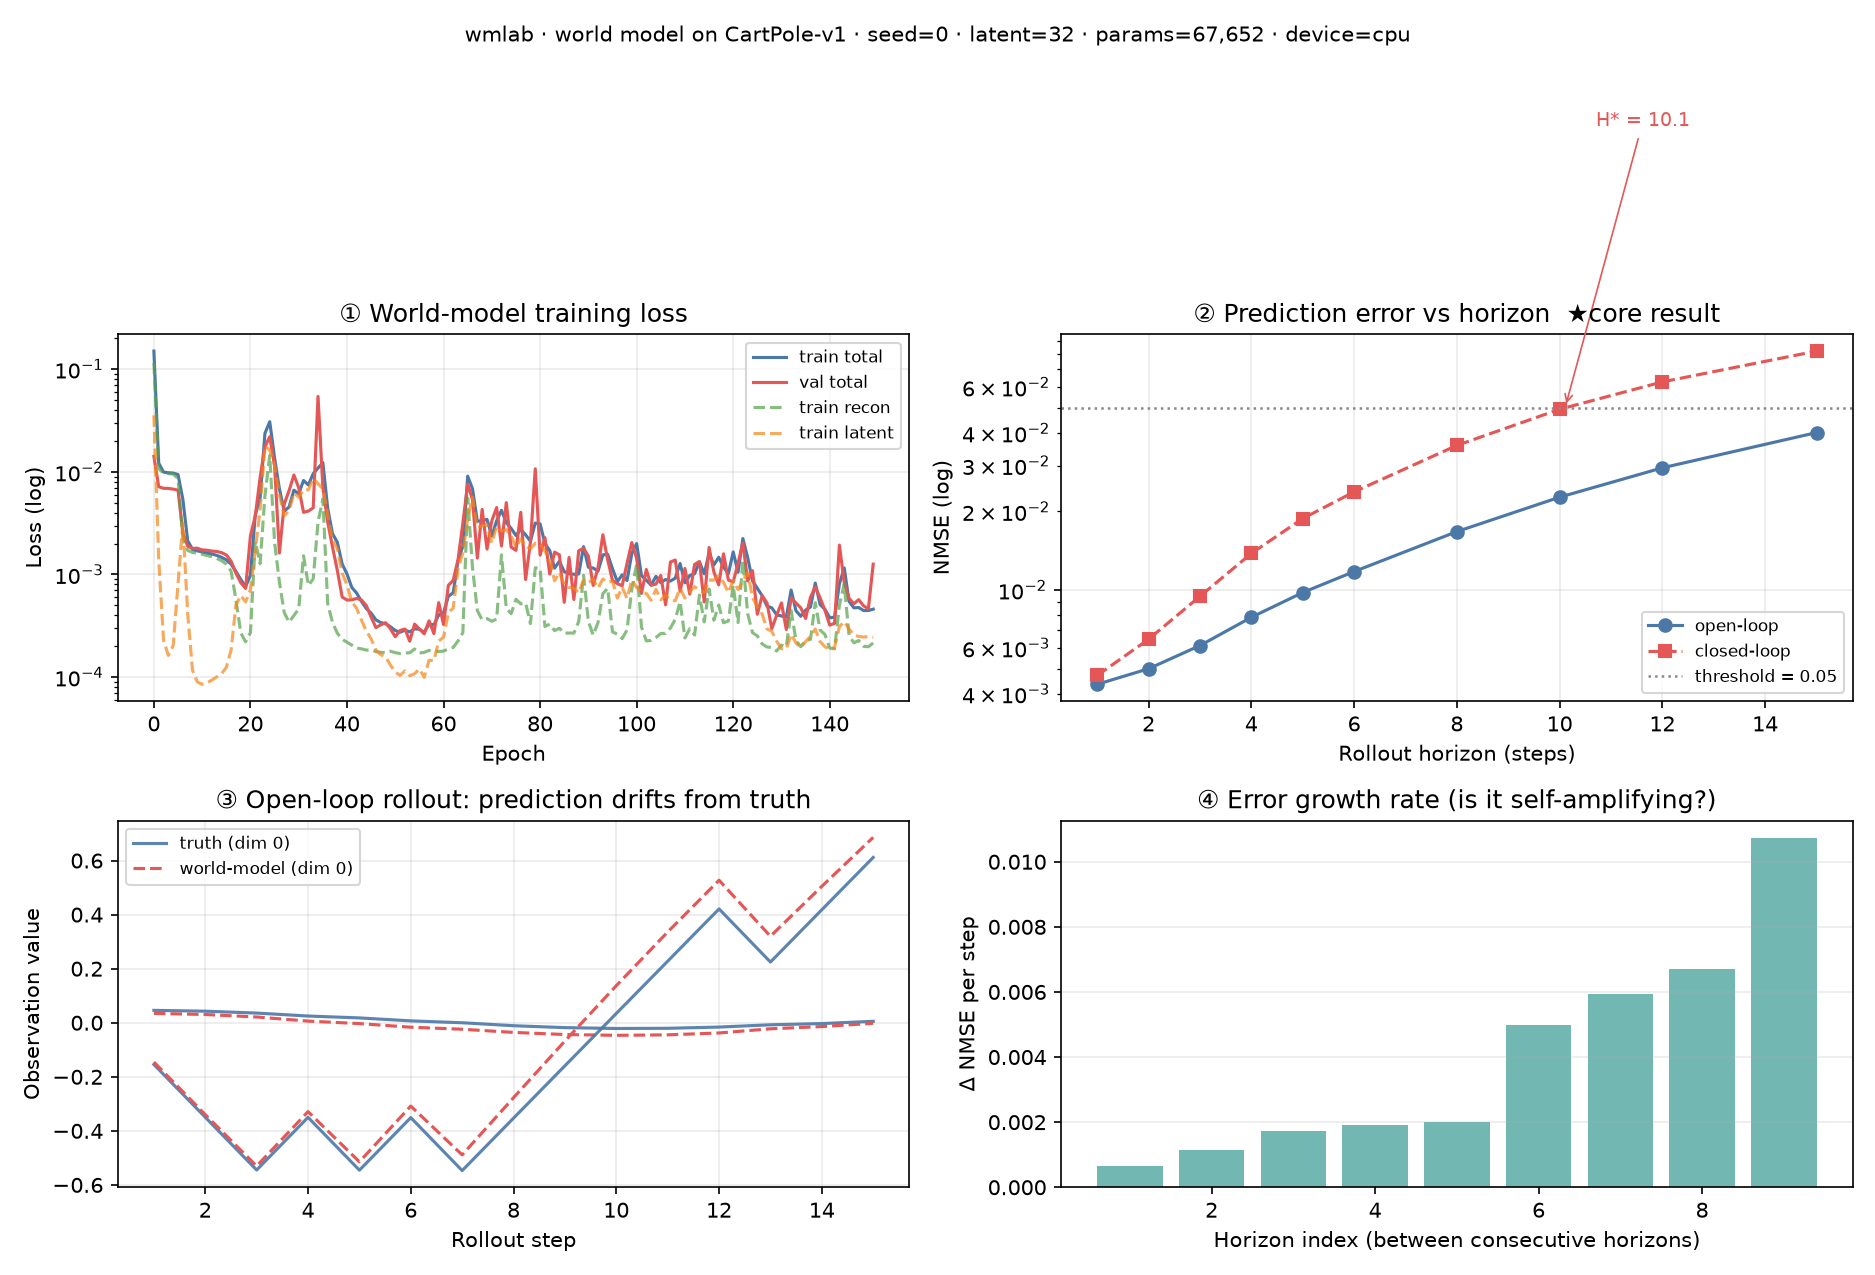
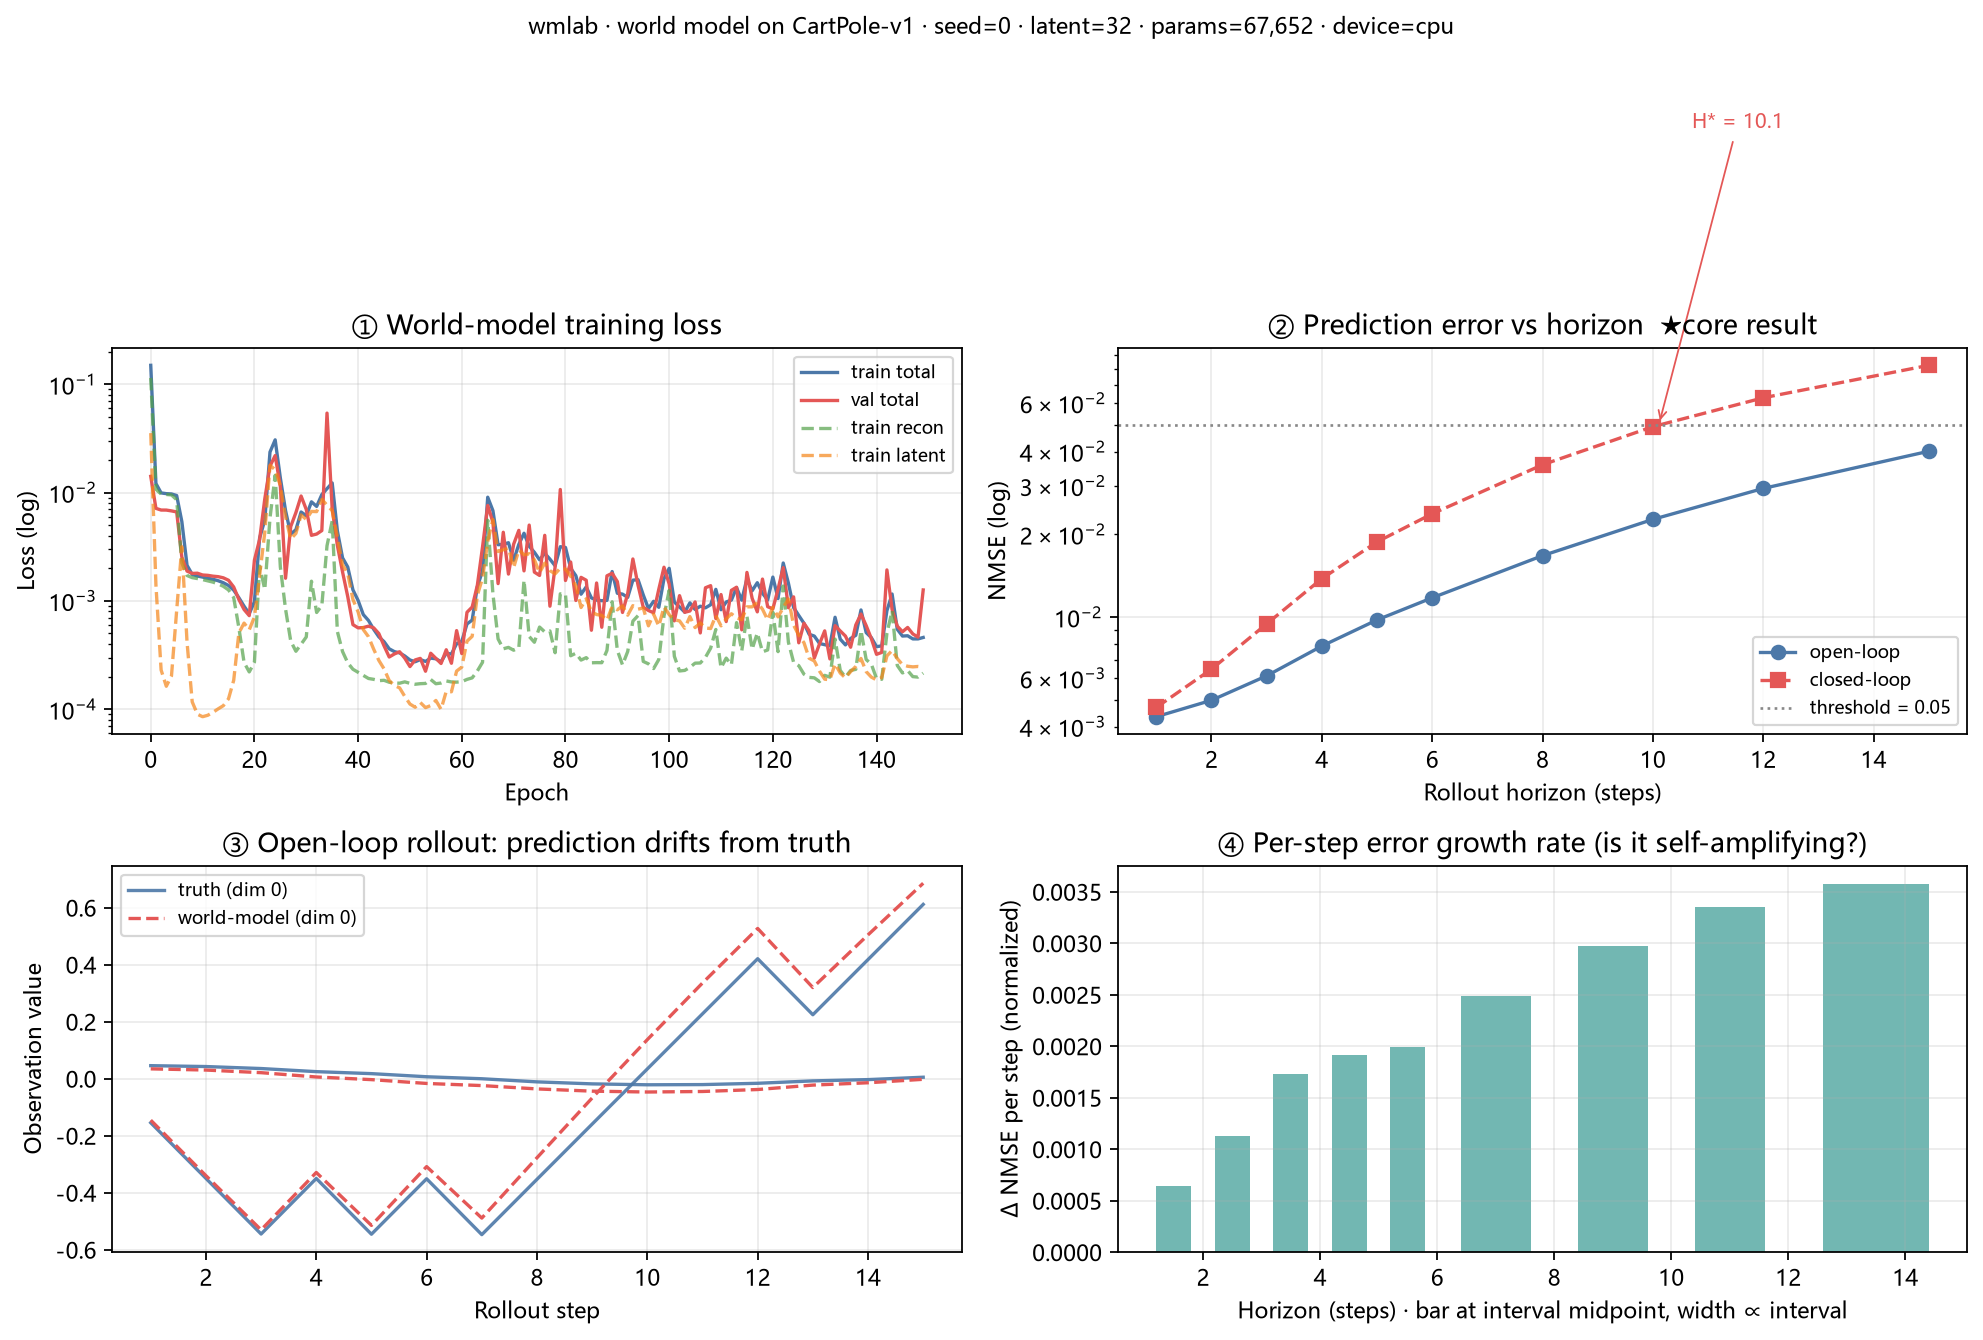
exp: long-horizon reliable horizon on Pendulum (horizons up to 190)
把 README 里自己写的那句「当前数字不足以下结论」补掉。三处改动：

1. configs/pendulum.yaml（新增）：换 Pendulum-v1（每集固定 200 步），
   horizons 抬到 190 —— 上一轮 CartPole 的 15 是**数据上限**（随机策略平均只活
   22.9 步），不是模型上限，所以「开环 > 15」什么也没测到。

2. scripts/02_train_world_model.py：修子图④的口径缺陷。
   原 inc = np.diff(nmse)，而 horizons 间隔不等（…2,2,3,5,5,10,10,25,25,50,40），
   直接差分会把「采样间隔变大」混进「误差增长加速」。
   改为 inc = ΔNMSE / Δhorizon，柱状位置改区间中点、柱宽 ∝ 区间长度。

3. scripts/03_analyze_horizon_curve.py（新增）：从 json 里算每步增量并判定形态
   （monotone_up / linear / saturating），让「误差是自我放大还是饱和」不靠肉眼看图。

结果（CPU，seed=0，模型/损失/优化器/阈值全部不动，只换数据供给）：
  - 开环 H* = 64.8 步，闭环 H* = 52.0 步（NMSE > 0.05，rel 口径，与上一轮同口径）
  - 形态 = **饱和**，不是自我放大：每步增量峰值在 h≈88（开环 9.4e-3/步），
    之后掉头（开环回撤 17%、闭环回撤 63%）
  - 上一轮「自我放大」的结论被限制为**短视界错觉**：CartPole 只测到 15 步，
    整段都落在饱和曲线的上升段
  - 待验证：闭环在超长视界 NMSE 反而低于开环（h=190：0.76 vs 1.03，开环 >1
    即比预测均值还差），需多种子/多阈值复核

CartPole 那轮同种子重跑，H* 闭环 = 10.10731756489904 与上一轮**逐位一致**，
确认流程确定性可复现。

diff --git a/scripts/03_analyze_horizon_curve.py b/scripts/03_analyze_horizon_curve.py
@@ -1,0 +1,123 @@
+#!/usr/bin/env python
+# -*- coding: utf-8 -*-
+"""脚本 03 —— 从 02 产出的 json 里，把「误差增长的形态」算清楚。
+
+为什么需要这个脚本
+------------------
+02 的图②画的是 NMSE 随视界增长的**曲线本身**，图④画的是每步增量。
+但要回答「误差是线性累积、自我放大、还是饱和」，光看图不够 —— 需要看
+**每步增量的峰值出现在哪、峰值之后是继续涨还是掉头**。
+
+上一轮（2026-09-17）的结论「误差自我放大」是**看图得出的**，且用了错误口径
+（`np.diff(nm)` 对不等间隔的 horizons 直接差分）。这个脚本把正确的口径固定下来：
+
+    inc(h) = ΔNMSE / Δhorizon        # 每步误差增量，已按步数归一
+
+并给出形态判定（三选一）：
+    - monotone_up : 增量一路上升（自我放大 / 发散）
+    - saturating  : 增量先升后降，末端趋平（饱和，存在有界特征时间 H*）
+    - linear      : 增量基本恒定（线性累积）
+
+运行
+----
+    python scripts/03_analyze_horizon_curve.py outputs/02_world_model_pendulum.json
+    python scripts/03_analyze_horizon_curve.py a.json b.json --csv out.csv
+"""
+
+from __future__ import annotations
+
+import argparse
+import csv
+import json
+import sys
+from pathlib import Path
+
+sys.path.insert(0, str(Path(__file__).resolve().parents[1]))
+
+
+def per_step(nmse: list[float], horizons: list[float]) -> list[float]:
+    """每步误差增量：ΔNMSE / Δhorizon（按步数归一，消除不等间隔的影响）。"""
+    return [(nmse[i + 1] - nmse[i]) / (horizons[i + 1] - horizons[i])
+            for i in range(len(nmse) - 1)]
+
+
+def shape(inc: list[float]) -> tuple[str, str]:
+    """判定增量序列的形态。返回 (标签, 一句依据)。"""
+    k = len(inc)
+    if k < 3:
+        return "undetermined", f"只有 {k} 个区间，不足以判定形态"
+    peak = max(range(k), key=lambda i: inc[i])
+    tail = inc[peak:]
+    # 峰值之后的最大回撤比例
+    drop = (max(tail) - min(tail)) / max(tail) if max(tail) > 0 else 0.0
+    # 首段（峰值之前）的上升倍数
+    head_gain = inc[peak] / inc[0] if inc[0] > 0 else float("inf")
+
+    if peak == k - 1:
+        return "monotone_up", (f"峰值落在最后一段区间（第 {peak + 1}/{k} 段），"
+                               f"全程上升 {head_gain:.1f}× —— 未见饱和")
+    if drop >= 0.15:
+        return "saturating", (f"峰值在第 {peak + 1}/{k} 段，之后最大回撤 {drop:.0%}"
+                              f"（上升 {head_gain:.1f}× 后掉头）—— 误差增长饱和")
+    if head_gain < 1.5:
+        return "linear", f"全程增量变化 < 1.5×（{head_gain:.2f}×）—— 近似线性累积"
+    return "saturating_mild", (f"峰值在第 {peak + 1}/{k} 段，之后回撤仅 {drop:.0%}"
+                               f"（上升 {head_gain:.1f}×）—— 趋于饱和但未明显掉头")
+
+
+def analyze(js: Path) -> dict:
+    d = json.loads(js.read_text(encoding="utf-8"))
+    out = {"file": js.name, "env": d["config"]["env"]["id"],
+           "H_open": d["reliable_horizon_open"],
+           "H_closed": d["reliable_horizon_closed"],
+           "threshold": d["threshold"], "curves": {}}
+    for key, label in (("curve_open_loop", "open"), ("curve_closed_loop", "closed")):
+        c = d[key]
+        hs = [float(h) for h in c["horizons"]]
+        nm = [float(v) for v in c["nmse"]]
+        inc = per_step(nm, hs)
+        lab, why = shape(inc)
+        out["curves"][label] = {
+            "horizons": hs, "nmse": nm, "inc": inc,
+            "mid": [0.5 * (hs[i] + hs[i + 1]) for i in range(len(hs) - 1)],
+            "shape": lab, "why": why,
+            "peak_mid": 0.5 * (hs[inc.index(max(inc))] + hs[inc.index(max(inc)) + 1]),
+            "nan": any(v != v or v in (float("inf"), float("-inf")) for v in nm + inc),
+        }
+    return out
+
+
+def main():
+    p = argparse.ArgumentParser(description="分析误差曲线的增长形态")
+    p.add_argument("jsons", nargs="+", help="02 脚本产出的 json 路径")
+    p.add_argument("--csv", default=None, help="可选：把每步增量表导出为 csv")
+    args = p.parse_args()
+
+    rows = []
+    for j in args.jsons:
+        a = analyze(Path(j))
+        print("=" * 74)
+        print(f"{a['file']}   env={a['env']}   threshold={a['threshold']}")
+        print(f"  H* 开环 = {a['H_open']}    H* 闭环 = {a['H_closed']}")
+        for label in ("open", "closed"):
+            c = a["curves"][label]
+            name = "开环" if label == "open" else "闭环"
+            print(f"\n  [{name}] 形态 = {c['shape']}   NaN/Inf = {c['nan']}")
+            print(f"    {c['why']}")
+            print("    horizon区间中点   每步ΔNMSE")
+            for mid, v in zip(c["mid"], c["inc"]):
+                bar = "#" * max(1, int(38 * v / max(c["inc"])))
+                print(f"    {mid:8.1f}   {v:.3e}  {bar}")
+                rows.append([a["file"], a["env"], label, mid, v])
+        print()
+
+    if args.csv:
+        with open(args.csv, "w", newline="", encoding="utf-8-sig") as f:
+            w = csv.writer(f)
+            w.writerow(["file", "env", "loop", "horizon_mid", "nmse_inc_per_step"])
+            w.writerows(rows)
+        print(f"csv 已写出 -> {args.csv}")
+
+
+if __name__ == "__main__":
+    main()

diff --git a/scripts/02_train_world_model.py b/scripts/02_train_world_model.py
@@ -223,12 +223,16 @@ def main():
 
     # ④ 每步误差增量
     ax = axes[1, 1]
+    # ★ 口径修正（2026-09-18）：horizons 间隔不等（…2,2,3,5,5,10,10,25,25,50,40），
+    #   直接 np.diff(nm) 会把「间隔变大」混进「误差增长加速」。按步数归一才是每步增量。
+    hs_f = np.asarray(curve_open["horizons"], dtype=float)
     nm = np.asarray(curve_open["nmse"], dtype=float)
-    inc = np.diff(nm)
-    ax.bar(range(1, len(inc) + 1), inc, color="#72B7B2")
-    ax.set_xlabel("Horizon index (between consecutive horizons)")
-    ax.set_ylabel("Δ NMSE per step")
-    ax.set_title("④ Error growth rate (is it self-amplifying?)")
+    inc = np.diff(nm) / np.diff(hs_f)
+    centers = 0.5 * (hs_f[:-1] + hs_f[1:])
+    ax.bar(centers, inc, width=0.6 * np.diff(hs_f), color="#72B7B2")
+    ax.set_xlabel("Horizon (steps) · bar at interval midpoint, width ∝ interval")
+    ax.set_ylabel("Δ NMSE per step (normalized)")
+    ax.set_title("④ Per-step error growth rate (is it self-amplifying?)")
     ax.grid(alpha=0.25, axis="y")
 
     fig.suptitle(

diff --git a/README.md b/README.md
@@ -28,6 +28,15 @@ python scripts/01_random_baseline.py
 
 # 4) 训练一个世界模型，产出 loss 曲线 + 多步预测误差曲线
 python scripts/02_train_world_model.py
+
+# 5) 分析误差增长的形态（饱和 / 线性累积 / 自我放大，三选一）
+python scripts/03_analyze_horizon_curve.py outputs/02_world_model_pendulum.json
+```
+
+换环境只换配置，代码不动（长视界那轮就是这么做控制变量的）：
+
+```bash
+python scripts/02_train_world_model.py --config configs/pendulum.yaml --tag 02_world_model_pendulum
 ```
 
 所有结果图写入 `outputs/`（不进版本库）。
@@ -59,7 +68,7 @@ outputs/    ★ 结果图与日志，已 gitignore
 6. **依赖锁定**：`requirements.lock.txt` 记录本机全量依赖（torch 为 +cpu 版，
    上云时替换为对应 CUDA 版本即可）。
 
-## 结果（2026-09-17 首次测量，CPU 全部跑通）
+## 结果（CPU，全部可复现；同种子重跑逐位一致）
 
 ### ① 随机策略 baseline
 
@@ -68,29 +77,71 @@ outputs/    ★ 结果图与日志，已 gitignore
 CartPole-v1，600 集随机策略：平均回报 **22.9**（std 11.9），最长 69 步，共 13733 步。
 随机策略平均 20 步出头就倒 —— 这也是当下 `horizons` 上限取 15 的原因。
 
-### ② 世界模型与可靠视界 ★ core result
+### ② 世界模型与可靠视界（第一轮：CartPole，短视界）
 
 ![world model](assets/02_world_model.png)
 
 | 指标 | 值 |
 |---|---|
+| 环境 / 数据 | CartPole-v1，600 集随机策略，13,733 步 |
 | 参数量 | 67,652 |
 | train / val loss | 0.1502 → 0.0005 / 0.0013 |
-| **可靠视界（开环）** | **> 15 步**（测得范围内 NMSE 最高 0.011，未触及阈值 0.05） |
+| **可靠视界（开环）** | **测不出**（视界上限 15 步内 NMSE 最高 0.040 < 0.05） |
 | **可靠视界（闭环）** | **10.1 步**（NMSE 首次超过 0.05，线性插值） |
 
-**怎么读这张图**：开环 rollout 到 15 步仍然可靠；但一旦把模型自己的预测喂回去（闭环），
-第 10 步就不可信。子图④ 的「每步误差增量」是**递增**的 —— 说明误差在**自我放大**，而不是线性累积。
-这正是「该不该预测」这个问题可以量化的地方。
+**注意：这一轮的结论后来被修正了**（见下一节）。当时由图④ 得到「误差在自我放大」，但有两个问题：
 
-**明确待改进**：开环在测得的 15 步内没超阈，说明要么阈值 0.05 偏宽、要么视界太短、要么两者都有。
-下一步换 Pendulum（每集固定 200 步）把视界拉到 50+，才能给出开环的真实 H\*。**当前数字不足以下结论。**
+- **15 是数据上限，不是模型上限** —— 随机策略在 CartPole 上平均只活 22.9 步，
+  `horizons` 物理上就设不到更大，所以「开环 > 15」什么也没测到；
+- **图④ 的口径有缺陷** —— 当时写的是 `inc = np.diff(nmse)`，而 `horizons` 间隔不等
+  （…2, 2, 3, 5, 5, 10…），**直接差分会把「采样间隔变大」混进「误差增长加速」**。
+
+### ③ ★ 核心结果：Pendulum 长视界（2026-09-18）
+
+![long horizon](assets/02_world_model_pendulum.png)
+
+换到 `Pendulum-v1`（每集固定 200 步）把视界抬到 **190**。
+**模型 / 损失 / 优化器 / 阈值全部不动，只换数据供给** —— 这是控制变量，不是调参：
+
+| 指标 | 值 |
+|---|---|
+| 环境 / 数据 | Pendulum-v1，300 集随机策略，60,000 步（每集 200.0 步） |
+| 参数量 | 67,267（obs_dim=3，连续动作） |
+| train / val loss | 0.7298 → 0.0007 / 0.0005 |
+| **可靠视界（开环）** | **64.8 步** |
+| **可靠视界（闭环）** | **52.0 步** |
+| 阈值 | NMSE > 0.05（`rel` 口径，与上一轮同口径，未改） |
+
+**三条结论**（每步增量表可用 `scripts/03_analyze_horizon_curve.py` 复现）：
+
+1. **开环 H\* 第一次是个有限数字：64.8 步。** 上一轮那个「> 15」是区间下界，不是测出来的值。
+
+2. **误差增长是「饱和」，不是「自我放大」。** 每步增量在 h≈88 处到达峰值
+   （开环 9.4e-3、闭环 3.5e-3 每步），之后**掉头**：开环回撤 17%、闭环回撤 63%。
+   上一轮之所以看到「自我放大」，是因为 CartPole 只测到 15 步，**整段都落在饱和曲线的上升段**
+   —— 用短视界数据外推长视界行为，得到的是错觉。正确描述是：
+   **每步误差增长率先升后降，最终饱和到目标方差（NMSE → 1，即「完全不可预测」的上界）**。
+
+3. **闭环误差在超长视界反而低于开环**（h=190：闭环 NMSE 0.76 vs 开环 1.03）。
+   开环 NMSE > 1 意味着**比「直接预测均值」还差**；闭环则像收敛到了动力学的吸引子附近，误差不再扩大。
+   **这是最反直觉的一条，明确标注为待验证**（候选解释：闭环不再被真实动作序列牵引，误差有上界；
+   需用多种子 / 多阈值复核 —— 对应课题里的 T4 消融）。
+
+**怎么读这张图**：子图② 是对数坐标的 NMSE 曲线，两条都呈 S 形 ——
+h < 50 稳步上升、h ≈ 50–90 之间急剧恶化、h > 100 之后趋平。
+子图③ 是一条真实轨迹的 190 步开环预测：前 30 步基本贴合，之后相位逐渐偏移。
+子图④ 已按步数归一（`ΔNMSE / Δhorizon`，柱宽 ∝ 区间长度），能直接看出峰值位置。
+
+**诚实的边界**：以上都是**随机策略**数据、**CPU**、**单种子（seed=0）**、MLP 世界模型。
+**跨环境数字不可比** —— Pendulum 与 CartPole 的 H\* 不能直接比较（状态维度、动作空间、
+每集长度都不同），这里只作「各测一次」。也**尚未回答**「该不该预测」这个科研问题（那是消融实验的事）。
 
 ## 当前状态
 
 - [x] 环境接口 + CartPole 适配器
 - [x] 最小世界模型（MLP 版）
 - [x] 多步 rollout 误差曲线 + 可靠视界指标
+- [x] 长视界 H\* 测量（Pendulum，视界到 190）＋ 误差形态判定脚本（`scripts/03_`）
 - [ ] 换场景：UAV 轨迹 / 无线信道（下一步）
 - [ ] 因子化潜空间（确定性 H_t + 随机 Z_t）与不确定性校准
 - [ ] 扩散策略动作头（对齐 diffusion policy）
@@ -99,3 +150,5 @@ CartPole-v1，600 集随机策略：平均回报 **22.9**（std 11.9），最长
 
 - 课题地图与选题：见父项目 `D:\workbuddy\researchproject`
 - 方法来源：Dreamer 系（潜空间想象训练）、JEPA 系（联合嵌入预测）
+- 误差增长形态的判定口径：`scripts/03_analyze_horizon_curve.py`
+  （`inc = ΔNMSE/Δhorizon`；峰值在末段 = 未饱和，峰值后回撤 ≥ 15% = 饱和）
